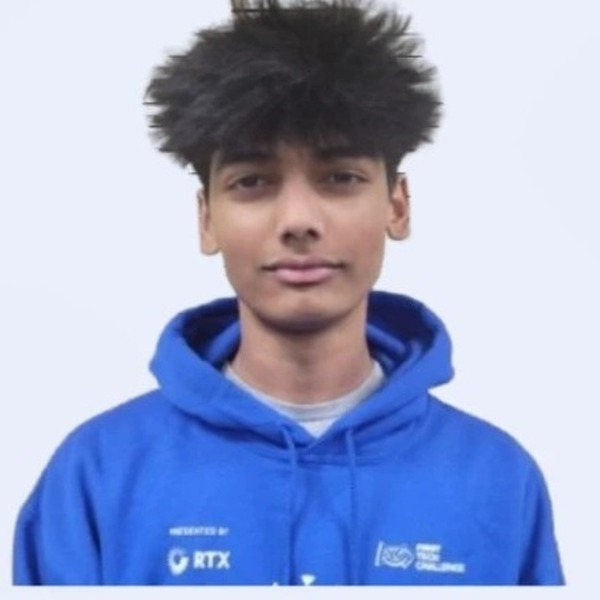
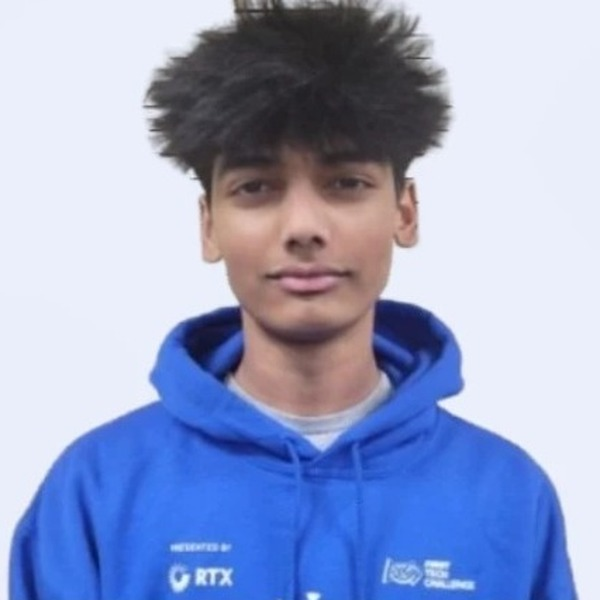
Add Thanishka Janumpally, fix Akash photo bottom gap, 8 members

diff --git a/src/views/TeamView.vue b/src/views/TeamView.vue
@@ -4,7 +4,7 @@
       <div class="container">
         <h1>Meet The Team</h1>
         <div class="divider"></div>
-        <p>7 members. 2 coaches. One goal.</p>
+        <p>8 members. 2 coaches. One goal.</p>
       </div>
     </section>
 
@@ -70,13 +70,14 @@ export default {
         { name: 'Sanjit', role: 'Mechanical Team', photo: '/images/team/headshots/photo_A.jpg' },
         { name: 'Akash', role: 'Mechanical Team', photo: '/images/team/headshots/photo_akash.jpg' },
         { name: 'Colter Hardy', role: 'Programming Team', photo: '/images/team/headshots/photo_colter.jpg' },
+        { name: 'Thanishka Janumpally', role: 'Programming Team', photo: '/images/team/headshots/photo_thanishka.jpg' },
         { name: 'Abhijeet', role: 'Mechanical Team', photo: '/images/team/headshots/photo_C.jpg' },
         { name: 'Aditya', role: 'Mechanical Team', photo: null },
         { name: 'Samuel', role: 'Mechanical Team', photo: '/images/team/headshots/photo_samuel.jpg' },
       ],
       subteams: [
         { name: 'Mechanical Team', members: ['Sanjit', 'Akash', 'Abhijeet', 'Aditya', 'Samuel'] },
-        { name: 'Programming Team', members: ['Colter Hardy'] }
+        { name: 'Programming Team', members: ['Colter Hardy', 'Thanishka Janumpally'] }
       ]
     }
   }

diff --git a/src/views/HomeView.vue b/src/views/HomeView.vue
@@ -34,7 +34,7 @@
             <span class="stat-label">Team Number</span>
           </div>
           <div class="stat">
-            <span class="stat-num">7</span>
+            <span class="stat-num">8</span>
             <span class="stat-label">Team Members</span>
           </div>
           <div class="stat">
@@ -52,7 +52,7 @@
           <h2 class="section-title" style="text-align:left">Who We Are</h2>
           <div class="divider" style="margin-left:0"></div>
           <p>
-            The Trailblazers (FTC #16244) are a diverse group of 7 members from many different schools
+            The Trailblazers (FTC #16244) are a diverse group of 8 members from many different schools
             in the Dunlap, Illinois area, competing in the Peoria League. For 7 seasons we've built
             competitive robots, grown as engineers, and given back to our community through STEM outreach.
           </p>

diff --git a/src/views/AboutView.vue b/src/views/AboutView.vue
@@ -16,7 +16,7 @@
           <div class="divider" style="margin-left:0"></div>
           <p>
             The Trailblazers (#16244) are a 7-year FIRST Tech Challenge team based in Dunlap, Illinois,
-            competing in the Peoria League. We are a diverse group of 7 members drawn from many different
+            competing in the Peoria League. We are a diverse group of 8 members drawn from many different
             schools, united by a passion for robotics and engineering.
           </p>
           <p style="margin-top: 1rem;">
@@ -28,7 +28,7 @@
             <span class="tag">Dunlap, IL</span>
             <span class="tag">Peoria League</span>
             <span class="tag">7 Seasons</span>
-            <span class="tag">7 Members</span>
+            <span class="tag">8 Members</span>
             <span class="tag">2 Coaches</span>
           </div>
         </div>

diff --git a/src/views/ContactView.vue b/src/views/ContactView.vue
@@ -78,7 +78,7 @@ export default {
         { label: 'Email', value: 'ftc16244@gmail.com', href: 'mailto:ftc16244@gmail.com' },
         { label: 'Location', value: 'Dunlap, Illinois', href: null },
         { label: 'League', value: 'Peoria FTC League', href: null },
-        { label: 'Coaches', value: '2 Coaches · 7 Members', href: null },
+        { label: 'Coaches', value: '2 Coaches · 8 Members', href: null },
       ]
     }
   },
